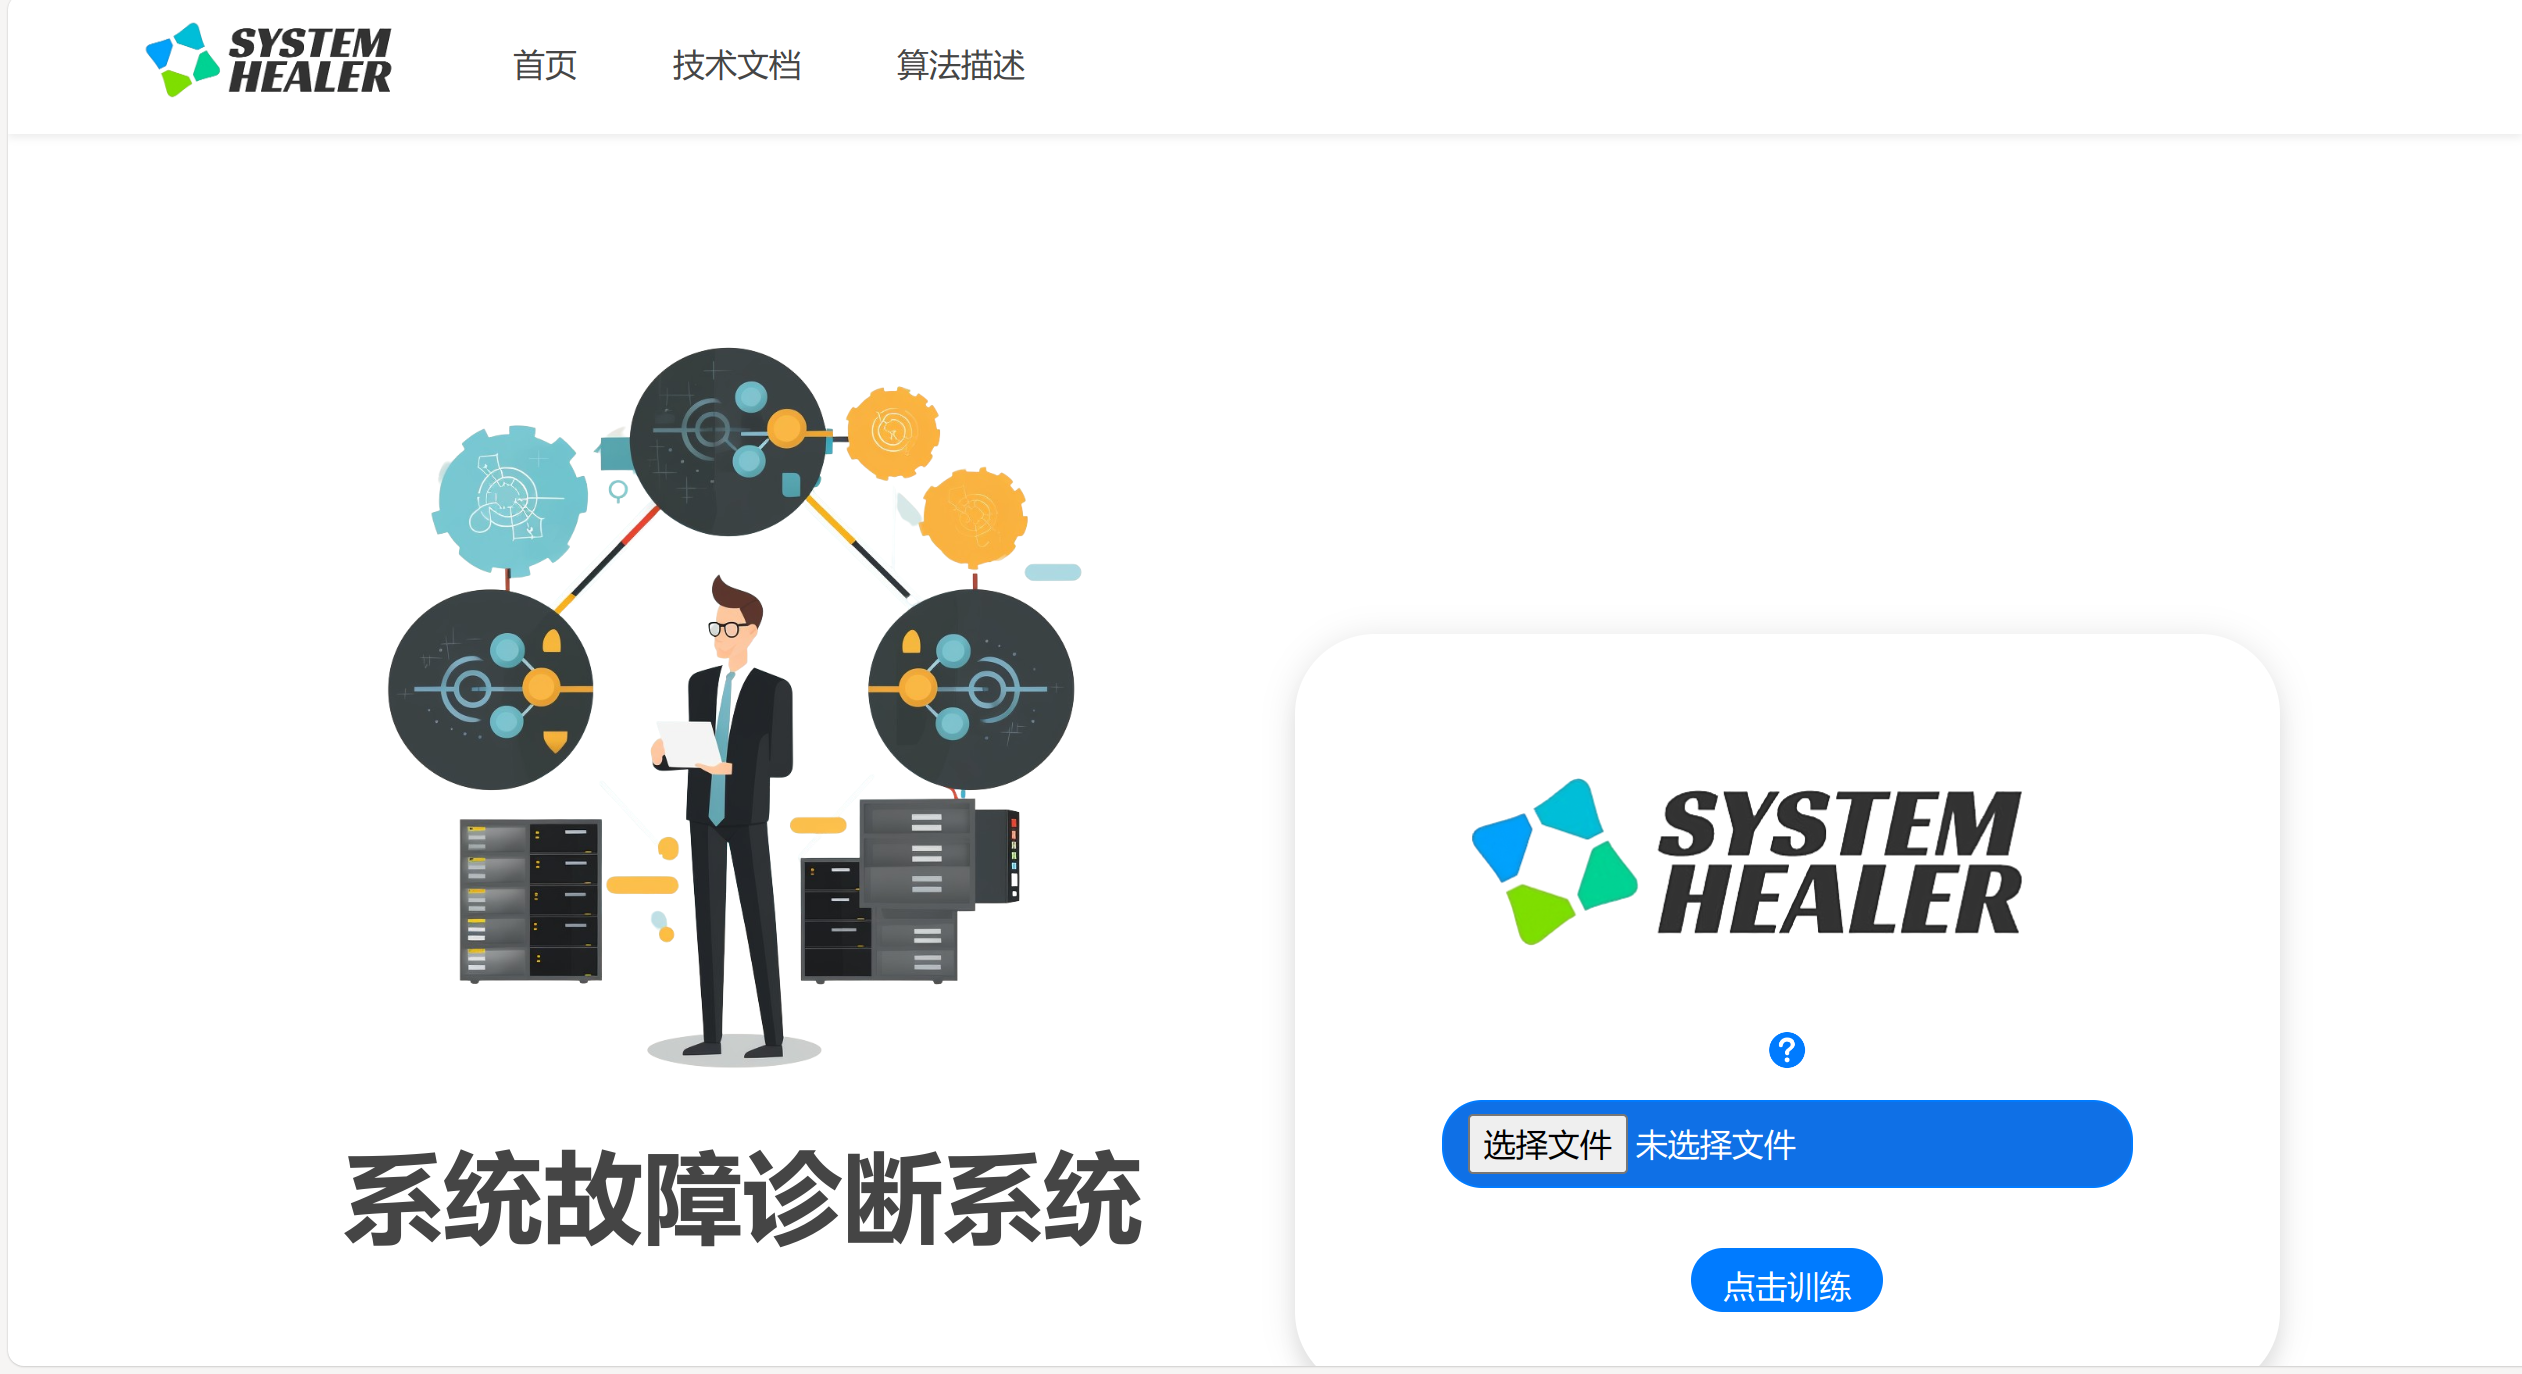
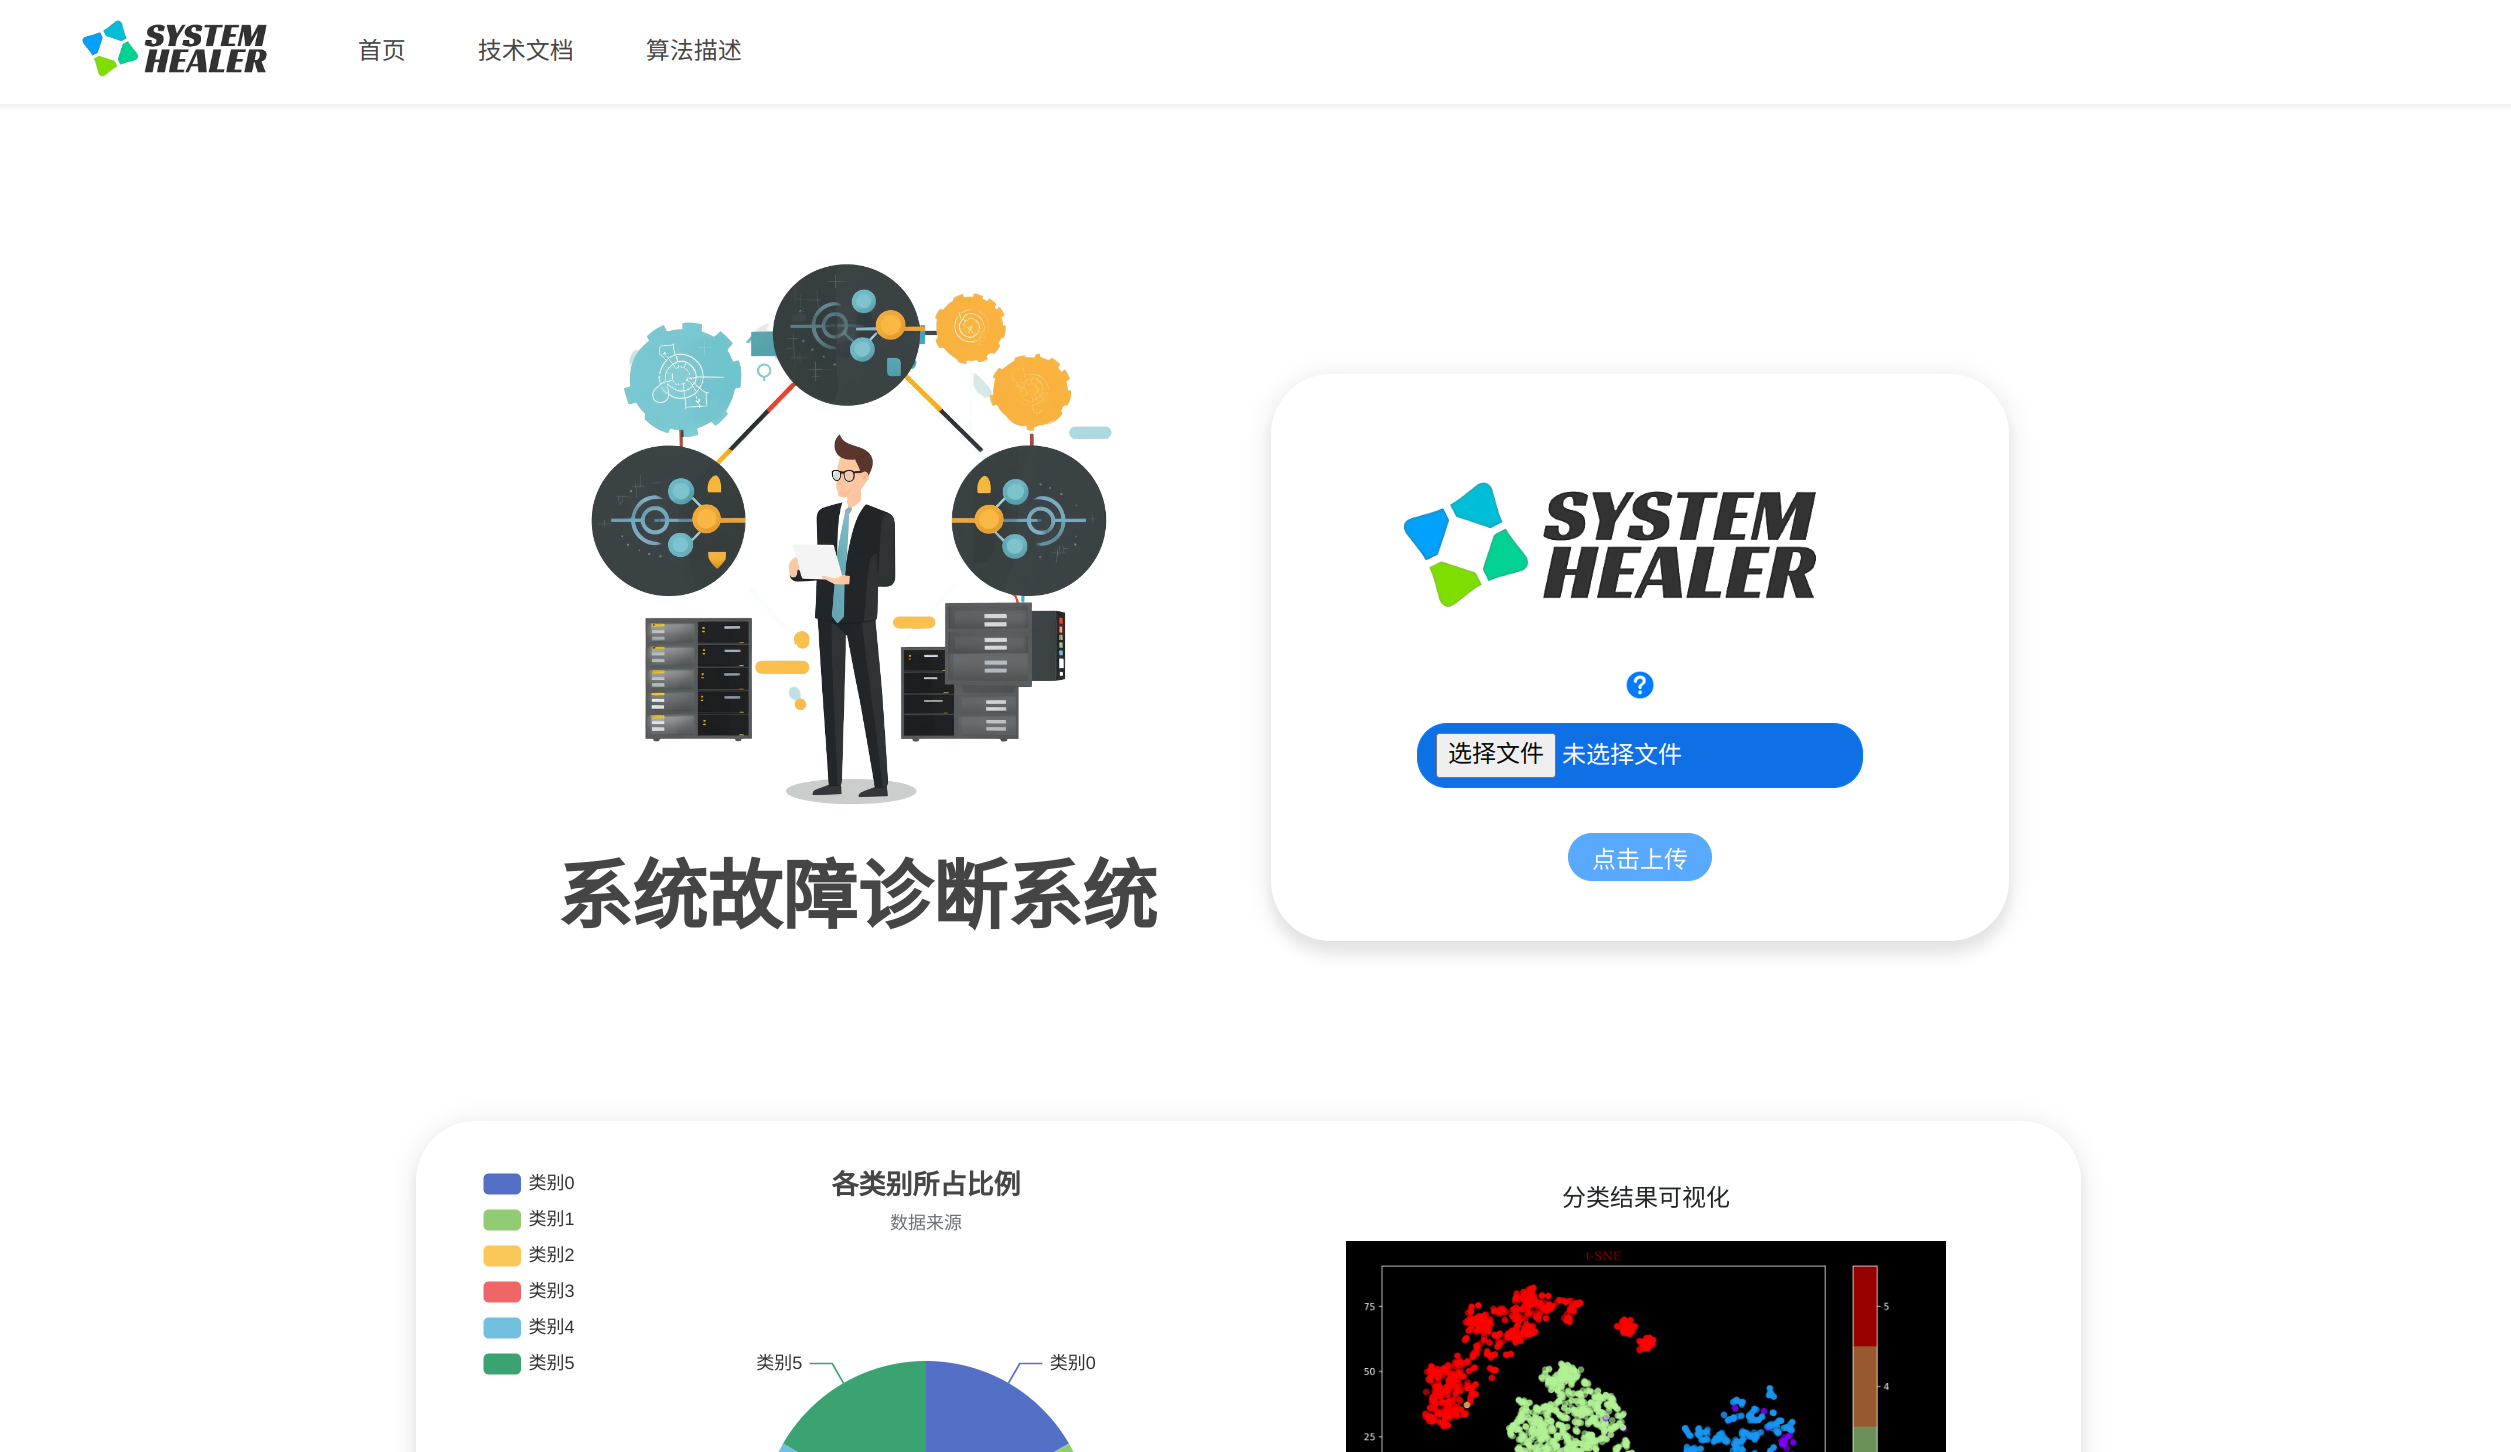
docs: update README file

diff --git a/README.md b/README.md
@@ -29,7 +29,13 @@
 
 ![index_page](./pics/website.png)
 
-		网页基于web3开发，主要使用html5+css3+js，使用bootstrap和jQuary框架构建交互操作，提高了web系统的美观性、易用性。
+网页基于web3开发，主要使用html5+css3+js，使用bootstrap和jQuary框架构建交互操作，提高了web系统的美观性、易用性。
+
+web系统分为头部栏、上传训练模块和结果分析模块，用户可以在用户栏访问到有关模型、算法的更多信息；上传训练模块给出了文件提示和上传训练数据、预测数据的接口；结果分析模块在未上传数据时给出了样例图标，上传数据训练和预测后会根据结果生成结果分析图标，供用户对模型进行评估。
+
+用户初次进入web系统，网页处于初始状态，未选择上传的文件时，点击上传的按钮被禁用，同时下方结果分析模块处于默认状态；用户选择文件后，“点击上传”按钮处于激活状态，上传后，后端进行模型训练并返回结果，等待训练完毕后，用户可以在下方看到各类别所占比例的饼状图、分类结果可视化的tsne图、训练集和验证集损失随迭代次数变化的折线图，通过这些图用户可以对模型有基本的认识。
+
+训练完毕后，用户可以上传需要预测的数据，等待模型预测后，同样的可以在下方看到预测结果的分析图标。在上传模块可以下载预测结果文件和模型文件，便于保存训练好的模型。	
 
 ### 2.2 部署方法
 
